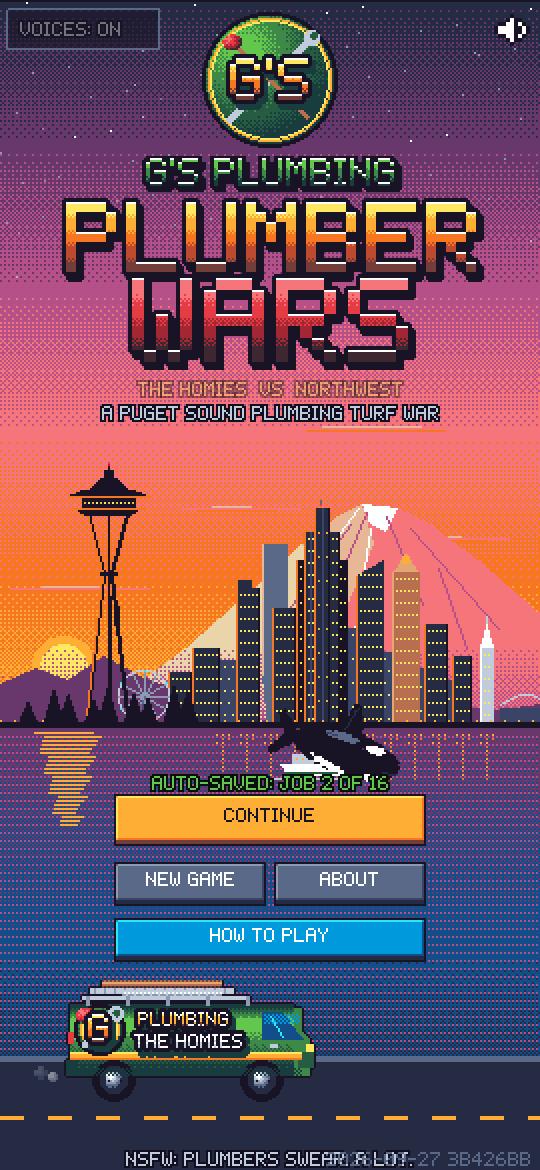
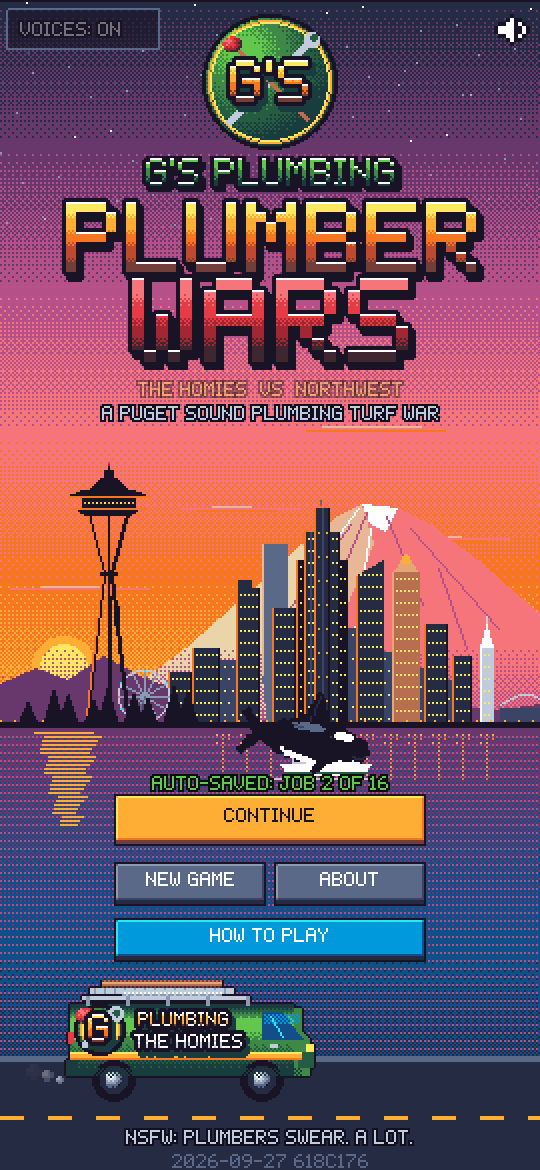
About pages: meet the crew + all six neighborhoods; tidy title footer
- About is now a short flip-book: the game, The Homies (what each one brings), then one page per
  neighborhood with its intro pixel art, a line of real history, the plumbing there, and credits
- Title screen: NSFW line and build stamp no longer overlap

diff --git a/src/scenes/About.js b/src/scenes/About.js
@@ -1,43 +1,108 @@
 import Phaser from 'phaser';
-import { W, H, txt, button, wipeTo, wipeIn, panel, isTouch } from '../core/ui.js';
+import { W, H, txt, setTxt, button, wipeTo, wipeIn, panel, isTouch } from '../core/ui.js';
 import { audio } from '../core/audio.js';
 import { C, hex } from '../core/palette.js';
-import { HEROES } from '../data/content.js';
+import { HEROES, DISTRICTS, districtJobs, jobNo } from '../data/content.js';
+import { CREW_BLURB, HOMIE_BIOS, HOODS } from '../data/about.js';
 import { portrait } from '../art/people.js';
 
 const SITE = 'https://timknab.dev';
+const DORDER = [0, 1, 2, 3, 5, 4]; // neighborhoods in play order (Alki before the Queen Anne showdown)
+// page 0: about the game, page 1: the homies, then one page per neighborhood
+const PAGES = ['about', 'homies', ...DORDER.map(d => d)];
 
 export class About extends Phaser.Scene {
   constructor() { super('About'); }
+  init() { this.page = 0; this.credits = null; }
   create() {
     wipeIn(this);
     this.add.rectangle(0, 0, W, H, hex(C.ink)).setOrigin(0);
     for (let y = 0; y < H; y += 4) this.add.rectangle(0, y, W, 1, hex(C.night), 0.6).setOrigin(0);
-    this.add.image(W / 2, 30, 'badgeBig');
-    txt(this, W / 2, 70, 'ABOUT', { ox: 0.5, size: 3, color: C.gold });
+    this.body = this.add.container(0, 0);
+    this.dots = PAGES.map((_, i) => this.add.circle(W / 2 + (i - (PAGES.length - 1) / 2) * 12, H - 50, 3, hex(C.storm)));
+    this.prev = button(this, 44, H - 22, 76, 26, '< BACK', () => this.go(-1), { color: 'btnGrey', textColor: C.white, key: 'LEFT', sound: 'blip' });
+    this.nextBtn = button(this, W - 50, H - 22, 88, 26, 'NEXT >', () => this.go(1), { color: 'btnGreen', textColor: C.white, key: ['RIGHT', 'ENTER', 'SPACE'], sound: 'blip' });
+    this.input.keyboard.on('keydown-ESC', () => this.leave());
+    this.input.keyboard.on('keydown-BACKSPACE', () => this.leave());
+    this.input.keyboard.on('keydown-T', () => { if (PAGES[this.page] === 'about') this.openSite(); });
+    this.input.on('pointerup', p => { const dx = p.upX - p.downX; if (Math.abs(dx) > 50 && Math.abs(p.upY - p.downY) < 60) this.go(dx < 0 ? 1 : -1); });
+    fetch('districts/credits.json').then(r => r.json()).then(c => { this.credits = c; if (this.creditTxt && this.creditTxt.active) this.fillCredit(); }).catch(() => {});
+    this.show();
+  }
+  go(d) {
+    const n = this.page + d;
+    if (n < 0 || n >= PAGES.length) return this.leave();
+    this.page = n; this.show();
+  }
+  leave() { audio.sfx('select'); wipeTo(this, 'Title'); }
+  openSite() { audio.sfx('select'); window.open(SITE, '_blank', 'noopener'); }
+  add2(o) { this.body.add(o); return o; }
+  show() {
+    this.body.removeAll(true); this.creditTxt = null;
+    const P = PAGES[this.page];
+    if (P === 'about') this.aboutPage(); else if (P === 'homies') this.homiesPage(); else this.hoodPage(P);
+    this.dots.forEach((d, i) => d.setFillStyle(i === this.page ? hex(C.gold) : hex(C.storm)));
+    this.prev.label.setText(this.page === 0 ? '< EXIT' : '< BACK');
+    this.nextBtn.label.setText(this.page === PAGES.length - 1 ? 'DONE' : 'NEXT >');
+  }
 
+  aboutPage() {
+    this.add2(this.add.image(W / 2, 30, 'badgeBig'));
+    this.add2(txt(this, W / 2, 70, 'ABOUT', { ox: 0.5, size: 3, color: C.gold }));
     const y0 = 98;
-    panel(this, 8, y0, W - 16, 138);
-    txt(this, 18, y0 + 10, "G'S PLUMBING - THE HOMIES", { color: C.lime });
-    txt(this, 18, y0 + 24, "A LOVE LETTER TO SEATTLE'S HARDEST-WORKING (AND FUNNIEST) PLUMBING CREW. RACE NORTHWEST ACROSS TOWN, THEN FIX 16 REAL PUGET SOUND PLUMBING JOBS THE WAY A PRO WOULD - RIGHT TOOL, RIGHT ORDER, RIGHTY-TIGHTY. 6 NEIGHBORHOODS, INCLUDING TIMMY'S TUB ON ALKI BEACH.", { maxW: W - 36 });
-    txt(this, 18, y0 + 108, 'NORTHWEST IS FICTIONAL. THEIR MOUTHS ARE FILTHY.', { color: C.pink, maxW: W - 36 });
-
-    // the crew
+    this.add2(panel(this, 8, y0, W - 16, 138));
+    this.add2(txt(this, 18, y0 + 10, "G'S PLUMBING - THE HOMIES", { color: C.lime }));
+    this.add2(txt(this, 18, y0 + 24, "A LOVE LETTER TO SEATTLE'S HARDEST-WORKING (AND FUNNIEST) PLUMBING CREW. RACE NORTHWEST ACROSS TOWN, THEN FIX 16 REAL PUGET SOUND PLUMBING JOBS THE WAY A PRO WOULD - RIGHT TOOL, RIGHT ORDER, RIGHTY-TIGHTY. 6 NEIGHBORHOODS, INCLUDING TIMMY'S TUB ON ALKI BEACH.", { maxW: W - 36 }));
+    this.add2(txt(this, 18, y0 + 108, 'NORTHWEST IS FICTIONAL. THEIR MOUTHS ARE FILTHY.', { color: C.pink, maxW: W - 36 }));
     const cy = y0 + 142;
     HEROES.forEach((h, i) => {
       const x = W / 2 + (i - 1) * 84;
-      this.add.rectangle(x, cy + 26, 52, 52, hex(C.storm)).setStrokeStyle(2, hex(h.color));
-      this.add.image(x, cy + 26, portrait(this, h.id, h.look, 'happy'));
-      txt(this, x, cy + 56, h.name, { ox: 0.5, color: h.color });
+      this.add2(this.add.rectangle(x, cy + 26, 52, 52, hex(C.storm)).setStrokeStyle(2, hex(h.color)));
+      this.add2(this.add.image(x, cy + 26, portrait(this, h.id, h.look, 'happy')));
+      this.add2(txt(this, x, cy + 56, h.name, { ox: 0.5, color: h.color }));
     });
-
     const ay = cy + 76;
-    txt(this, W / 2, ay, 'GAME BY', { ox: 0.5, color: C.silver });
-    txt(this, W / 2, ay + 12, 'TIM KNAB', { ox: 0.5, size: 2, color: C.white });
-    const open = () => { audio.sfx('select'); window.open(SITE, '_blank', 'noopener'); };
-    button(this, W / 2, ay + 44, 170, 28, 'TIMKNAB.DEV  >', open, { color: 'btnBlue', textColor: C.white, sound: null, key: 'T' });
-    txt(this, W / 2, ay + 66, 'PIXELS, BANGERS & TRASH TALK ALL MADE IN CODE WITH PHASER.', { ox: 0.5, color: C.steel, maxW: W - 30, align: 1 });
-
-    button(this, W / 2, H - 22, 150, 26, isTouch ? '< BACK' : '< BACK [ESC]', () => wipeTo(this, 'Title'), { color: 'btnGrey', textColor: C.white, key: ['ESC', 'BACKSPACE'] });
+    this.add2(txt(this, W / 2, ay, 'GAME BY', { ox: 0.5, color: C.silver }));
+    this.add2(txt(this, W / 2, ay + 12, 'TIM KNAB', { ox: 0.5, size: 2, color: C.white }));
+    this.add2(button(this, W / 2, ay + 44, 170, 28, isTouch ? 'TIMKNAB.DEV  >' : 'TIMKNAB.DEV [T]', () => this.openSite(), { color: 'btnBlue', textColor: C.white, sound: null }));
+    this.add2(txt(this, W / 2, ay + 66, 'PIXELS, BANGERS & TRASH TALK ALL MADE IN CODE WITH PHASER.', { ox: 0.5, color: C.steel, maxW: W - 30, align: 1 }));
+    this.add2(txt(this, W / 2, ay + 92, 'NEXT: MEET THE CREW + THE NEIGHBORHOODS >', { ox: 0.5, color: C.lime, maxW: W - 30, align: 1 }));
   }
+
+  homiesPage() {
+    this.add2(this.add.image(W / 2, 20, 'badge'));
+    this.add2(txt(this, W / 2, 38, 'THE HOMIES', { ox: 0.5, size: 2, color: C.gold }));
+    const intro = this.add2(txt(this, W / 2, 58, CREW_BLURB, { ox: 0.5, maxW: W - 40, align: 1, color: C.white }));
+    let y = 58 + intro.height + 12;
+    const cardH = Math.min(86, Math.floor((H - 66 - y) / 3) - 6);
+    HEROES.forEach(h => {
+      this.add2(panel(this, 6, y, W - 12, cardH));
+      this.add2(this.add.rectangle(34, y + 30, 52, 52, hex(C.storm)).setStrokeStyle(2, hex(h.color)));
+      this.add2(this.add.image(34, y + 30, portrait(this, h.id, h.look, 'smug')));
+      this.add2(txt(this, 66, y + 7, h.name, { color: h.color, size: 2 }));
+      this.add2(txt(this, 66, y + 25, h.role, { color: C.gold }));
+      this.add2(txt(this, 66, y + 39, HOMIE_BIOS[h.id], { maxW: W - 80, color: C.white }));
+      y += cardH + 6;
+    });
+  }
+
+  hoodPage(d) {
+    const D = DISTRICTS[d], info = HOODS[d], n = DORDER.indexOf(d) + 1;
+    this.add2(txt(this, W / 2, 8, `THE NEIGHBORHOODS  ${n}/${DORDER.length}`, { ox: 0.5, color: C.lime }));
+    // the same pixel art as the district intro, full width and still
+    const key = 'district_' + D.art, top = 22;
+    this.add2(this.add.rectangle(W / 2, top + 86, W - 4, 174, hex(C.gold)).setStrokeStyle(2, hex(C.ink)));
+    if (this.textures.exists(key)) this.add2(this.add.image(W / 2, top + 86, key));
+    let y = top + 184;
+    this.add2(txt(this, W / 2, y, D.name, { ox: 0.5, size: 2, color: C.gold })); y += 20;
+    const jobs = districtJobs(d).map(jobNo);
+    this.add2(txt(this, W / 2, y, (jobs.length > 1 ? `JOBS ${jobs[0]}-${jobs.at(-1)}` : `JOB ${jobs[0]}`) + ' - ' + D.road, { ox: 0.5, color: C.lime })); y += 20;
+    const b = this.add2(txt(this, W / 2, y, info.blurb, { ox: 0.5, maxW: W - 36, align: 1, color: C.white })); y += b.height + 14;
+    this.add2(txt(this, W / 2, y, 'THE PLUMBING', { ox: 0.5, color: C.cyan })); y += 12;
+    this.add2(txt(this, W / 2, y, info.pipes, { ox: 0.5, maxW: W - 36, align: 1, color: C.silver }));
+    this.creditTxt = this.add2(txt(this, W / 2, H - 62, '', { ox: 0.5, oy: 1, color: C.slate, outline: false, maxW: W - 20, align: 1 }));
+    this.creditArt = D.art;
+    if (this.credits) this.fillCredit();
+  }
+  fillCredit() { const x = this.credits[this.creditArt]; if (x) setTxt(this.creditTxt, `ART FROM A PHOTO BY ${x.artist} (${x.license}, WIKIMEDIA COMMONS)`); }
 }

diff --git a/src/data/about.js b/src/data/about.js
@@ -1,0 +1,26 @@
+// Copy for the About pages: who the crew is, and a little real history for every neighborhood
+// (shown with the same pixel art as the "Welcome to ..." intros). Keep it short.
+
+export const CREW_BLURB = 'HARD WORK, BIG BRAINS, STRONG BACKS. THEY SHOW UP WHEN YOUR DAY IS UNDERWATER AND FIX IT RIGHT.';
+
+export const HOMIE_BIOS = {
+  dalton: 'FIRST ON SCENE, FIRST TO THE SHUTOFF. STOPS THE WATER, THEN FIXES THE PROBLEM. KNOWS EVERY SHORTCUT IN TOWN.',
+  milan: 'READS A DRAIN LIKE A MAP. SLOPE, PRESSURE, FLOW: HE SOLVES IT IN HIS HEAD BEFORE HE PICKS UP A WRENCH.',
+  jared: 'CALMS THE PANIC, EXPLAINS THE FIX, THEN CARRIES THE WATER HEATER UP THE STAIRS HIMSELF.',
+};
+
+// Indexed like DISTRICTS. `pipes` is the plumbing angle, one line of physics.
+export const HOODS = [
+  { blurb: 'SCANDINAVIAN FISHING ROOTS. THE LOCKS LIFT BOATS FROM PUGET SOUND INTO THE SHIP CANAL, AND SALMON CLIMB THE FISH LADDER NEXT DOOR.',
+    pipes: 'CENTURY-OLD DRAINS. GRAVITY WORKS IF THE SLOPE DOES.' },
+  { blurb: 'THE CENTER OF THE UNIVERSE (THEIR WORDS). A TROLL UNDER THE AURORA BRIDGE CRUSHES A REAL VW BEETLE.',
+    pipes: 'BACON GREASE COOLS, HARDENS AND CHOKES THE PIPE.' },
+  { blurb: 'CLUBS, COFFEE, STEEP STREETS AND THE RAINBOW CROSSWALKS ON BROADWAY. PARKING: NO.',
+    pipes: 'HIGH GROUND, HIGH PRESSURE. A REDUCING VALVE KEEPS OLD LINES ALIVE.' },
+  { blurb: 'THE JUNCTION IS NAMED FOR TWO STREETCAR LINES THAT MET AT CALIFORNIA AND ALASKA. NOW: RECORD STORES AND BREWPUBS.',
+    pipes: 'STORMS OFF THE SOUND FLOOD BASEMENTS. SUMP PUMPS EARN THEIR KEEP.' },
+  { blurb: 'KERRY PARK HAS THE POSTCARD VIEW: SPACE NEEDLE, DOWNTOWN, RAINIER. STREETS SO STEEP THE OLD STREETCARS USED COUNTERWEIGHTS.',
+    pipes: 'OLD CLAY SEWERS. TREE ROOTS FIND EVERY CRACK.' },
+  { blurb: 'WHERE SEATTLE BEGAN: THE DENNY PARTY LANDED HERE IN 1851. NOW IT IS VOLLEYBALL, FISH AND CHIPS AND TIMMY.',
+    pipes: 'SAND IN EVERY DRAIN. PLUG THE OVERFLOW OR THE PLUNGER JUST PUSHES AIR.' },
+];

diff --git a/src/scenes/Title.js b/src/scenes/Title.js
@@ -87,9 +87,9 @@ export class Title extends Phaser.Scene {
     this.add.rectangle(4, 4, 76, 20, 0x181425, 0.6).setOrigin(0).setStrokeStyle(1, 0x5a6988);
     hitZone(this, 44, 14, 88, 32, vt, 96);
     this.input.keyboard.on('keydown-V', vt);
-    txt(this, W / 2, H - 10, 'NSFW: PLUMBERS SWEAR. A LOT.', { ox: 0.5, color: C.silver });
+    txt(this, W / 2, H - 21, 'NSFW: PLUMBERS SWEAR. A LOT.', { ox: 0.5, color: C.silver });
     // build stamp, so a stale phone tab is easy to spot
-    txt(this, W - 4, H - 10, typeof __BUILD__ !== 'undefined' ? __BUILD__ : '', { ox: 1, color: C.slate, outline: false });
+    txt(this, W / 2, H - 9, typeof __BUILD__ !== 'undefined' ? __BUILD__ : '', { ox: 0.5, color: C.slate, outline: false });
     this.input.once('pointerup', () => { audio.unlock(); audio.music('title'); });
     if (audio.ctx) audio.music('title');
   }

diff --git a/README.md b/README.md
@@ -24,6 +24,8 @@ then fix real plumbing problems before the customer loses it and calls the compe
   one-shot assists: *Dalton clears the road*, *Milan auto-fixes a step*, *Jared sweet-talks +12s*.
 - **Welcome to the neighborhood.** Each district opens with pixel art of the real place (the Ballard Locks,
   the Fremont Troll, Capitol Hill's rainbow crosswalk, the West Seattle Junction, the Kerry Park view, Alki Beach).
+- **About pages.** Meet the crew (what each homie brings: brains, back, bedside manner) and flip through all six
+  neighborhoods with their pixel art, a bit of real history and the plumbing you'll find there.
 - **New here?** Tap **HOW TO PLAY** on the title screen (first-time players see it automatically).
   Progress **saves automatically** after every finished job (lead homie, unlocked jobs, stars) in your browser;
   hit **CONTINUE** to pick up where you left off.
